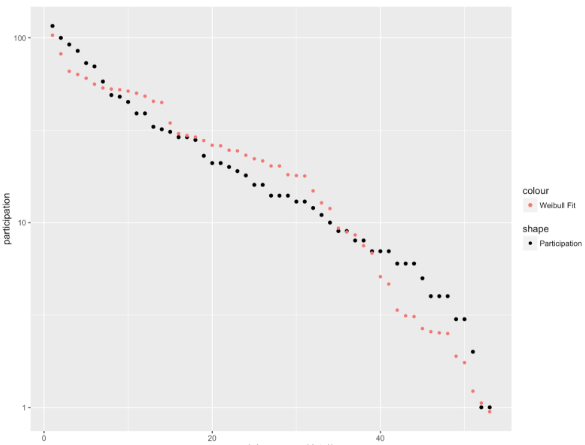
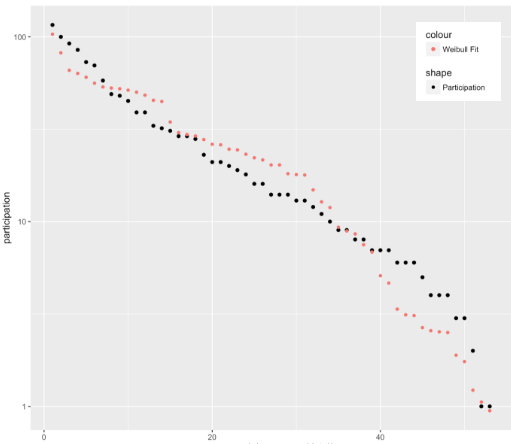
More corrections
@JJ have a look to last changes when you have time, I will come back
Sunday night, so we have all Monday.

diff --git a/2017-GECCO-Modeling-User-Interactions-in-IEC/paper-body.tex b/2017-GECCO-Modeling-User-Interactions-in-IEC/paper-body.tex
@@ -159,7 +159,7 @@ representing the interactive process of our C-IEC systems is proposed next.
 
 \begin{figure*}[!t]
     \centering
-        \includegraphics[width=5.5in]{img/framework.eps}
+        \includegraphics[width=6in]{img/framework.eps}
     \caption{IEC Human-centered framework.}
     \label{fig:hc_framework}
 \end{figure*}
@@ -543,13 +543,13 @@ show that the same pattern appears in this case study.
 
 \begin{figure}[!t]
     \centering
-        \includegraphics[width=4in]{img/weibull_2.png}
+        \includegraphics[width=3.5in]{img/weibull_2.png}
     \caption{Experiment G. Weibull Fit}
     \label{fig:w2}
 \end{figure}
 \begin{figure}[!t]
     \centering
-        \includegraphics[width=4in]{img/weibull_3.png}
+        \includegraphics[width=3.5in]{img/weibull_3.png}
     \caption{Experiment GG. Weibull Fit}
     \label{fig:w3}
 \end{figure}
@@ -574,7 +574,7 @@ are applied to the population.
 
 \begin{figure}[!t]
     \centering
-        \includegraphics[width=4in]{img/kinect.png}
+        \includegraphics[width=3.3in]{img/kinect.png}
     \caption{EvoDraw Instalation on Alife XV Cancun Mexico.}
     \label{fig:kinect}
 \end{figure}
